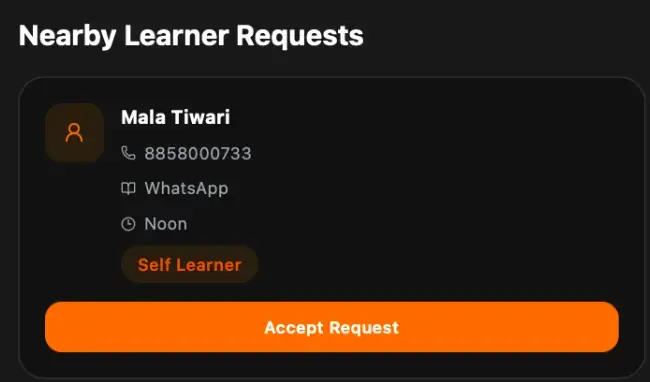
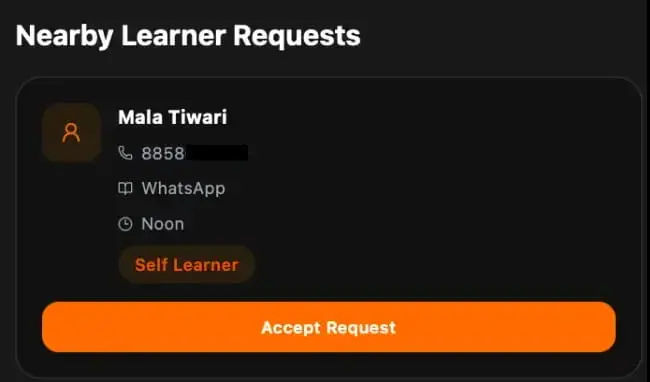
image changes

diff --git a/src/pages/LearnerLogin.jsx b/src/pages/LearnerLogin.jsx
@@ -1,9 +1,6 @@
 import { useState } from "react";
 import { useDispatch } from "react-redux";
-import {
-  sendOtp,
-  verifyOtp,
-} from "../redux/slices/learnerSlice";
+import { sendOtp, verifyOtp } from "../redux/slices/learnerSlice";
 import { useNavigate } from "react-router-dom";
 import toast from "react-hot-toast";
 
@@ -11,83 +8,57 @@ const LearnerLogin = () => {
   const dispatch = useDispatch();
   const navigate = useNavigate();
 
-  const [phone, setPhone] =
-    useState("");
+  const [phone, setPhone] = useState("");
 
-  const [otp, setOtp] =
-    useState("");
+  const [otp, setOtp] = useState("");
 
-  const [showOtpBox, setShowOtpBox] =
-    useState(false);
+  const [showOtpBox, setShowOtpBox] = useState(false);
 
   // SEND OTP
-  const handleSendOtp =
-    async () => {
-      if (!phone) {
-        toast.error(
-          "Enter phone number"
-        );
+  const handleSendOtp = async () => {
+  if (!phone.trim()) {
+  toast.error("Enter phone number");
+  return;
+}
 
-        return;
-      }
+const phoneRegex = /^[6-9]\d{9}$/;
 
-      const result =
-        await dispatch(
-          sendOtp(phone)
-        );
+if (!phoneRegex.test(phone)) {
+  toast.error("Enter a valid 10-digit phone number");
+  return;
+}
 
-      if (
-        sendOtp.fulfilled.match(
-          result
-        )
-      ) {
-        toast.success(
-          "OTP sent"
-        );
+    const result = await dispatch(sendOtp(phone));
 
-        setShowOtpBox(true);
-      } else {
-        toast.error(
-          result.payload ||
-            "Failed to send OTP"
-        );
-      }
-    };
+    if (sendOtp.fulfilled.match(result)) {
+      toast.success("OTP sent");
+
+      setShowOtpBox(true);
+    } else {
+      toast.error(result.payload || "Failed to send OTP");
+    }
+  };
 
   // VERIFY OTP
-  const handleVerifyOtp =
-    async () => {
-      const result =
-        await dispatch(
-          verifyOtp({
-            phone,
-            otp,
-          })
-        );
+  const handleVerifyOtp = async () => {
+    const result = await dispatch(
+      verifyOtp({
+        phone,
+        otp,
+      }),
+    );
 
-      if (
-        verifyOtp.fulfilled.match(
-          result
-        )
-      ) {
-        toast.success(
-          "Login successful"
-        );
+    if (verifyOtp.fulfilled.match(result)) {
+      toast.success("Login successful");
 
-        navigate(
-          "/learner/dashboard"
-        );
-      } else {
-        toast.error(
-          result.payload ||
-            "Invalid OTP"
-        );
-      }
-    };
+      navigate("/learner/dashboard");
+    } else {
+      toast.error(result.payload || "Invalid OTP");
+    }
+  };
 
   return (
     <section className="min-h-screen bg-[#f7f2eb] dark:bg-[#0f0f0f] flex items-center justify-center px-4 transition-all duration-300">
-
       <div
         className="
         w-full
@@ -108,15 +79,11 @@ const LearnerLogin = () => {
         {/* Heading */}
         <div className="text-center mb-8">
           <h1 className="text-3xl sm:text-4xl font-bold text-[#222] dark:text-white leading-tight">
-            Welcome to{" "}
-            <span className="text-orange-500">
-              Phone Guru
-            </span>
+            Welcome to <span className="text-orange-500">Phone Guru</span>
           </h1>
 
           <p className="text-gray-500 dark:text-gray-400 mt-3 text-sm sm:text-base">
-            Login or Register using
-            your phone number
+            Login or Register using your phone number
           </p>
         </div>
 
@@ -129,39 +96,39 @@ const LearnerLogin = () => {
             </label>
 
             <input
-              type="text"
-              placeholder="Enter phone number"
-              value={phone}
-              onChange={(e) =>
-                setPhone(
-                  e.target.value
-                )
-              }
-              className="
-                w-full
-                h-14
-                rounded-2xl
-                border
-                border-gray-300
-                dark:border-[#2a2a2a]
-                bg-white
-                dark:bg-[#121212]
-                dark:text-white
-                dark:placeholder:text-gray-500
-                px-4
-                outline-none
-                focus:border-orange-500
-                transition-all
-              "
-            />
+  type="tel"
+  inputMode="numeric"
+  maxLength={10}
+  placeholder="Enter phone number"
+  value={phone}
+  onChange={(e) =>
+    setPhone(
+      e.target.value.replace(/\D/g, "")
+    )
+  }
+  className="
+    w-full
+    h-14
+    rounded-2xl
+    border
+    border-gray-300
+    dark:border-[#2a2a2a]
+    bg-white
+    dark:bg-[#121212]
+    dark:text-white
+    dark:placeholder:text-gray-500
+    px-4
+    outline-none
+    focus:border-orange-500
+    transition-all
+  "
+/>
           </div>
 
           {/* Send OTP */}
           {!showOtpBox ? (
             <button
-              onClick={
-                handleSendOtp
-              }
+              onClick={handleSendOtp}
               className="
                 w-full
                 h-14
@@ -187,15 +154,24 @@ const LearnerLogin = () => {
                   OTP
                 </label>
 
+                <div className=" rounded-2xl border border-yellow-500/30 bg-yellow-500/10 p-4">
+                  <p className="text-sm font-semibold text-yellow-500">
+                    Demo Mode
+                  </p>
+
+                  <p className="text-sm text-gray-600 dark:text-gray-300 mt-1">
+                    OTP service is currently disabled. Use OTP:{" "}
+                    <span className="font-bold text-black dark:text-white">
+                      1234
+                    </span>
+                  </p>
+                </div>
+
                 <input
                   type="text"
                   placeholder="Enter OTP"
                   value={otp}
-                  onChange={(e) =>
-                    setOtp(
-                      e.target.value
-                    )
-                  }
+                  onChange={(e) => setOtp(e.target.value)}
                   className="
                     w-full
                     h-14
@@ -216,9 +192,7 @@ const LearnerLogin = () => {
               </div>
 
               <button
-                onClick={
-                  handleVerifyOtp
-                }
+                onClick={handleVerifyOtp}
                 className="
                   w-full
                   h-14

diff --git a/src/pages/TutorLogin.jsx b/src/pages/TutorLogin.jsx
@@ -16,15 +16,22 @@ const TutorLogin = () => {
 
   // SEND OTP
   const handleSendOtp = async () => {
-    if (!phone) {
+    if (!phone.trim()) {
       toast.error("Enter phone number");
+      return;
+    }
+
+    const phoneRegex = /^[6-9]\d{9}$/;
+
+    if (!phoneRegex.test(phone)) {
+      toast.error("Enter a valid 10-digit phone number");
       return;
     }
 
     const result = await dispatch(sendTutorOtp(phone));
 
     if (sendTutorOtp.fulfilled.match(result)) {
-      toast.success("OTP sent");
+      toast.success("Demo OTP: 1234");
 
       setShowOtpBox(true);
     } else {
@@ -88,24 +95,28 @@ const TutorLogin = () => {
             </label>
 
             <input
-              type="text"
+              type="tel"
+              inputMode="numeric"
+              maxLength={10}
               placeholder="Enter phone number"
               value={phone}
-              onChange={(e) => setPhone(e.target.value)}
+              onChange={(e) => setPhone(e.target.value.replace(/\D/g, ""))}
               className="
-                w-full
-                h-14
-                rounded-2xl
-                border
-                border-gray-300
-                dark:border-[#2a2a2a]
-                bg-white
-                dark:bg-[#121212]
-                dark:text-white
-                px-4
-                outline-none
-                focus:border-orange-500
-              "
+    w-full
+    h-14
+    rounded-2xl
+    border
+    border-gray-300
+    dark:border-[#2a2a2a]
+    bg-white
+    dark:bg-[#121212]
+    dark:text-white
+    dark:placeholder:text-gray-500
+    px-4
+    outline-none
+    focus:border-orange-500
+    transition-all
+  "
             />
           </div>
 
@@ -132,7 +143,18 @@ const TutorLogin = () => {
                 <label className="block text-sm font-semibold mb-2 text-[#222] dark:text-white">
                   OTP
                 </label>
+                <div className="rounded-2xl border border-yellow-500/30 bg-yellow-500/10 p-4">
+                  <p className="text-sm font-semibold text-yellow-500">
+                    Demo Mode
+                  </p>
 
+                  <p className="text-sm text-gray-600 dark:text-gray-300 mt-1">
+                    OTP service is currently disabled. Use OTP:{" "}
+                    <span className="font-bold text-white dark:text-white">
+                      1234
+                    </span>
+                  </p>
+                </div>
                 <input
                   type="text"
                   placeholder="Enter OTP"
